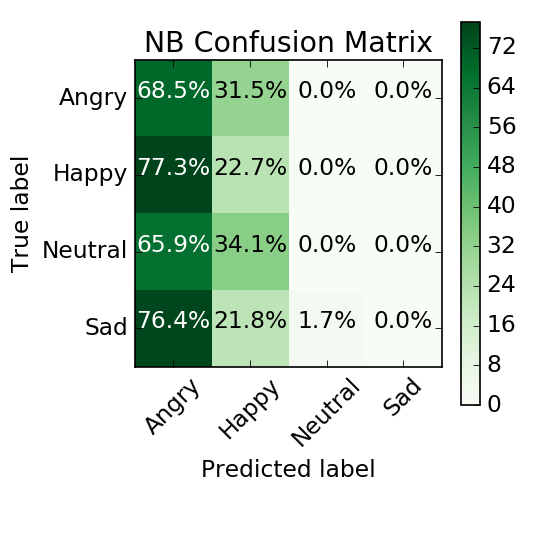
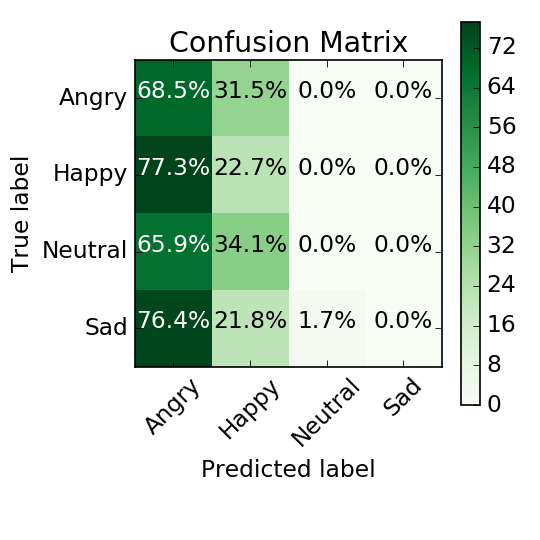
Finalized results, added iemocap_classifier.py

Changed region(s): [[0.2667, 0.0593, 0.8, 0.1185]]

diff --git a/EmotionCommotion/backend/classifiers/ensemble.py b/EmotionCommotion/backend/classifiers/ensemble.py
@@ -1,0 +1,134 @@
+from sklearn.metrics import confusion_matrix
+import pandas as pd
+import numpy as np
+import argparse
+import classifiers
+from sklearn.ensemble import ExtraTreesClassifier
+from sklearn.model_selection import GridSearchCV
+from sklearn.feature_selection import RFE
+from sklearn.svm import SVC
+from sklearn import preprocessing
+from sklearn.feature_selection import RFECV
+from sklearn.decomposition import PCA
+from classifiers import *
+import pickle
+
+# Read in the aggregated features provided by the cnn on the IEMOCAP database
+features_train = pd.read_csv('../data/allFeatures_standardized.csv')
+features_test = pd.read_csv('../data/allYoutubeFeaturesStandardized.csv')
+features_train = features_train.replace([np.inf, -np.inf], np.nan)
+features_test = features_test.replace([np.inf, -np.inf], np.nan)
+
+
+# pca = PCA(n_components=8)
+# pca.fit(features_train)
+# features_train = pca.transform(features_train)
+# features_test = pca.transform(features_test)
+
+#features = features.fillna(0)
+#features = features.iloc[:,[0,1,4,10,16,20,31,33,37,42,43,44,45,46,50,55,57,58,61,63,65]]
+
+# X = features.iloc[:,:8]
+
+
+
+#nb = pd.read_csv('./probs/classic_nb.csv')
+svm = pd.read_csv('./probs/svm_train.csv', header = None)
+rf = pd.read_csv('./probs/rf_train.csv', header = None)
+cnn_svm = pd.read_csv('./probs/svmcnn_train.csv', header = None)
+cnn_rf = pd.read_csv('./probs/rfcnn_train.csv', header = None)
+#cnn_gnb = pd.read_csv('./probs/gnbcnn_train.csv', header = None)
+
+svm = np.array(svm)
+rf = np.array(rf)
+cnn_svm = np.array(cnn_svm)
+cnn_rf = np.array(cnn_rf)
+print(svm.shape)
+print(rf.shape)
+
+X_train = np.concatenate((svm, rf), axis= 1)
+X_train = np.concatenate((X_train, cnn_svm), axis= 1)
+X_train = np.concatenate((X_train, cnn_svm), axis= 1)
+#X_train = np.concatenate((X_train, cnn_gnb), axis= 1)
+#X_train = np.concatenate((features_train, cnn_svm), axis= 1)
+
+svm = pd.read_csv('./probs/svm_test.csv', header = None)
+rf = pd.read_csv('./probs/rf_test.csv', header = None)
+cnn_svm = pd.read_csv('./probs/svmcnn_test.csv', header = None)
+cnn_rf = pd.read_csv('./probs/rfcnn_test.csv', header = None)
+#cnn_gnb = pd.read_csv('./probs/gnbcnn_test.csv', header = None)
+
+
+svm = np.array(svm)
+rf = np.array(rf)
+cnn_svm = np.array(cnn_svm)
+cnn_rf = np.array(cnn_rf)
+
+X_test = np.concatenate((svm, rf), axis= 1)
+X_test = np.concatenate((X_test, cnn_svm), axis= 1)
+X_test = np.concatenate((X_test, cnn_svm), axis= 1)
+#X_test = np.concatenate((X_test, cnn_gnb), axis= 1)
+#X_test = np.concatenate((features_test, cnn_svm), axis= 1)
+
+y_train = pd.read_csv('../data/allLabels.csv')
+y_test = pd.read_csv('../data/emmotion_labels.csv')
+y_train = np.ravel(y_train.drop(['time','session'],axis=1))
+y_test = np.ravel(y_test.drop(['session'],axis=1))
+
+print(X_train.shape)
+print(y_train.shape)
+#print(X_test.shape)
+#print(y_test.shape)
+
+# Test on IEOMOCAP
+# X_test = X_train[3548:]
+# X_train = X_train[:3548]
+# y_test = y_train[3548:]
+# y_train = y_train[:3548]
+
+
+print(X_train.shape)
+print(y_train.shape)
+print(X_test.shape)
+print(y_test.shape)
+
+min_max_scaler = preprocessing.MinMaxScaler()
+X_train_scaled = min_max_scaler.fit_transform(X_train)
+X_test_scaled = min_max_scaler.transform(X_test)
+
+
+
+
+# estimator = SVC(kernel='linear')#,class_weight='balanced', C=53)
+# selector = RFE(estimator, 16, step=1, verbose=10)
+# selector = selector.fit(X_train, y_train)
+# print(selector.ranking_)
+# X_train = selector.transform(X_train)
+# X_test = selector.transform(X_test)
+
+ensemble_model = get_svm()
+ensemble_model.fit(X_train_scaled,y_train)
+preds = ensemble_model.predict(X_test_scaled)
+print(preds.shape)
+accuracy = save_confusion_matrix(y_test, preds, filename='confusion_matrices/ensemble_wild.png')
+
+print("YouTube Accuracy: ", accuracy)
+
+iemo_X_train = X_train[:3548]
+iemo_X_test = X_train[3548:]
+iemo_y_train = y_train[:3548]
+iemo_y_test = y_train[3548:]
+
+min_max_scaler = preprocessing.MinMaxScaler()
+iemo_X_train_scaled = min_max_scaler.fit_transform(iemo_X_train)
+iemo_X_test_scaled = min_max_scaler.transform(iemo_X_test)
+
+ensemble_model = get_svm()
+ensemble_model.fit(iemo_X_train_scaled,iemo_y_train)
+preds = ensemble_model.predict(iemo_X_test)
+print(preds.shape)
+accuracy = save_confusion_matrix(iemo_y_test, preds, filename='confusion_matrices/ensemble_iemocap.png')
+
+print("IEMOCAP Accuracy: ", accuracy)
+
+#pickle.dump(ensemble_model, open('saved_classifiers/ensemble.pkl', 'wb'))

diff --git a/EmotionCommotion/backend/classifiers/cnn_stacker.py b/EmotionCommotion/backend/classifiers/cnn_stacker.py
@@ -1,0 +1,76 @@
+import pandas as pd
+import numpy as np
+from classifiers import *
+import pickle 
+
+# Get classifier tuned previously using grid search
+def get_stacker_probs(model_func, X_train, y_train, X_test, split_index):
+	# Split training data by index
+	X_train_a = X_train[:split_index]
+	X_train_b = X_train[split_index:]
+	y_train_a = y_train[:split_index]
+	y_train_b = y_train[split_index:]
+	# Fit model a using first half of data
+	model_a = model_func()
+	model_a.fit(X_train_a, y_train_a)
+	# Use model a to predict on the second half of data
+	train_probs_b = model_a.predict_proba(X_train_b)
+	# Fit model b using second half of data
+	model_b = model_func()
+	model_b.fit(X_train_b, y_train_b)
+	# Use model b to predict on the first half of data
+	train_probs_a = model_b.predict_proba(X_train_a)
+	# Combine predictions
+	train_probs = np.concatenate((train_probs_a,train_probs_b),axis=0)
+	# Fit final model using all of data
+	model_c = model_func()
+	model_c.fit(X_train,y_train)
+	test_probs = model_c.predict_proba(X_test)
+	return [model_c, train_probs, test_probs]
+
+
+
+# read in features extracted from datasets
+X_train = pd.read_csv('combined_classifier/IEMOCAP_cnn_agg.csv')
+X_test = pd.read_csv('combined_classifier/wild_frame_agg.csv')
+# Read in labels
+y_train = pd.read_csv('../data/allLabels.csv')
+y_test = pd.read_csv('../data/emmotion_labels.csv')
+
+print(np.array(X_test)[100])
+print(np.array(y_test)[100])
+print(sum(X_test['session'] != y_test['session']))
+# Ensure session names match
+assert sum(X_train['session'] != y_train['session']) == 0 # Ensure all sessions are the same
+assert sum(X_test['session'] != y_test['session']) == 0 # Ensure all sessions are the same
+# Drop unecessary values
+X_train = X_train.drop('session',axis=1)
+X_test = X_test.drop('session',axis=1)
+y_train = np.ravel(y_train.drop(['time','session'],axis=1))
+y_test = np.ravel(y_test.drop(['session'],axis=1))
+# Fill in infinite and nan values with 0s
+X_train = X_train.replace([np.inf, -np.inf], np.nan)
+X_train = X_train.fillna(0)
+X_test = X_test.replace([np.inf, -np.inf], np.nan)
+X_test = X_test.fillna(0)
+
+
+min_max_scaler = preprocessing.MinMaxScaler()
+X_train_scaled = min_max_scaler.fit_transform(X_train)
+X_test_scaled = min_max_scaler.transform(X_test)
+
+# Classifiers to stack
+clf_funcs = [get_gnb, get_svm, get_rf]
+clf_names = ['gnb', 'svm', 'rf']
+
+# Index of final sample from session 3
+split_index = 3548
+
+for i in range(0,len(clf_funcs)):
+	clf_func = clf_funcs[i]
+	clf_name = clf_names[i]
+	print("Stacking " + clf_name + "...")
+	[model, train_probs, test_probs] = get_stacker_probs(clf_func, X_train, y_train, X_test, split_index)
+	np.savetxt('probs/' + clf_name + 'cnn_train.csv', train_probs, delimiter=',')
+	np.savetxt('probs/' + clf_name + 'cnn_test.csv', test_probs, delimiter=',')
+	pickle.dump(model, open('saved_classifiers/cnn_' + clf_name + '.pkl', 'wb'))

diff --git a/EmotionCommotion/backend/classifiers/iemocap_classifier.py b/EmotionCommotion/backend/classifiers/iemocap_classifier.py
@@ -1,0 +1,48 @@
+import pandas as pd
+from sklearn import preprocessing
+from sklearn.svm import SVC
+from sklearn.metrics import confusion_matrix
+import numpy as np
+import itertools
+from sklearn.ensemble import RandomForestClassifier
+from sklearn.naive_bayes import GaussianNB
+import matplotlib.pyplot as plt
+from classifiers import *
+
+test_index = 3548
+
+
+X = pd.read_csv('../data/allFeatures_standardized.csv')
+y = pd.read_csv('../data/allLabels.csv')
+
+assert sum(X['session'] != y['session']) == 0 # Ensure all sessions are the same
+
+X = X.drop('session',axis=1)
+y = np.ravel(y.drop(['time','session'],axis=1))
+
+X = X.replace([np.inf, -np.inf], np.nan)
+X = X.fillna(0)
+X = X.drop(['max(zerocrossing(zerocrossing))',
+            'mean(zerocrossing(zerocrossing))'],axis=1)
+
+X_train = X[:test_index]
+X_test = X[test_index:]
+y_train = y[:test_index]
+y_test = y[test_index:]
+
+min_max_scaler = preprocessing.MinMaxScaler()
+X_train_scaled = min_max_scaler.fit_transform(X_train)
+X_test_scaled = min_max_scaler.transform(X_test)
+
+clf_funcs = [get_gnb, get_svm, get_rf]
+clf_names = ['gnb', 'svm', 'rf']
+
+for i in range(0,len(clf_funcs)):
+	clf = clf_funcs[i]()
+	clf_name = clf_names[i]
+	clf.fit(X_train_scaled,y_train)
+	train_predicions = clf.predict(X_train_scaled)
+	test_predictions = clf.predict(X_test_scaled)
+
+	accuracy = save_confusion_matrix(y_test, test_predictions, 'confusion_matrices/' + clf_name + "_iemocap.png")
+	print(clf_name + " test accuracy: ", accuracy)  # Average accuracy accross all 4 emotions

diff --git a/EmotionCommotion/backend/classifiers/youtube_classifier.py b/EmotionCommotion/backend/classifiers/youtube_classifier.py
@@ -50,9 +50,5 @@ for i in range(0,len(clf_funcs)):
 	train_predicions = clf.predict(X_train_scaled)
 	test_predictions = clf.predict(X_test_scaled)
 
-	# accuracy = save_confusion_matrix(y_train, train_predicions, 'confusion_matrices/' + clf_name + "_IEMOCAP.png")
-	# print(clf_name + " train accuracy: ", accuracy)  # Average accuracy accross all 4 emotions
-
-
 	accuracy = save_confusion_matrix(y_test, test_predictions, 'confusion_matrices/' + clf_name + "_YouTube.png")
 	print(clf_name + " test accuracy: ", accuracy)  # Average accuracy accross all 4 emotions

diff --git a/EmotionCommotion/backend/classifiers/classifiers.py b/EmotionCommotion/backend/classifiers/classifiers.py
@@ -43,7 +43,7 @@ def save_confusion_matrix(y_test, test_predictions, filename='tmp.png'):
 	cm_normalized = cnf_matrix.astype('float') / cnf_matrix.sum(axis=1)[:, np.newaxis]
 	cm_normalized = cm_normalized.round(3) * 100
 
-	plot_confusion_matrix(cm_normalized,fontsize=14,title='Ensemble Confusion Matrix',
+	plot_confusion_matrix(cm_normalized,fontsize=14,title='Confusion Matrix',
                       filename=filename)
 	return cm_normalized.trace()/4 # Average accuracy accross all 4 emotions
 
